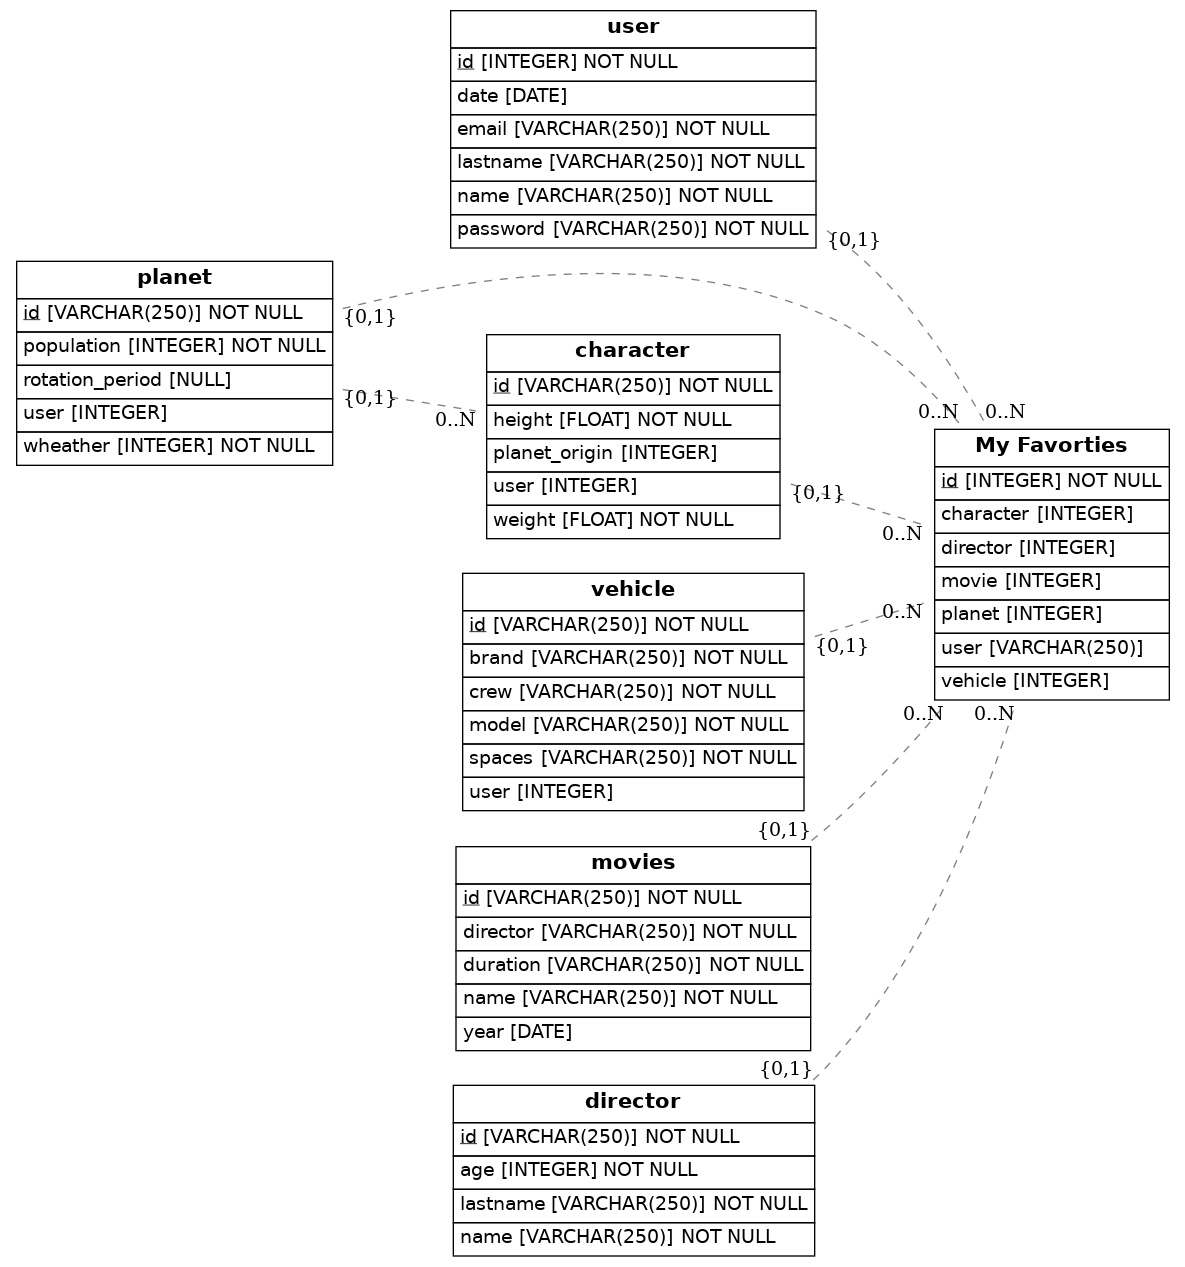
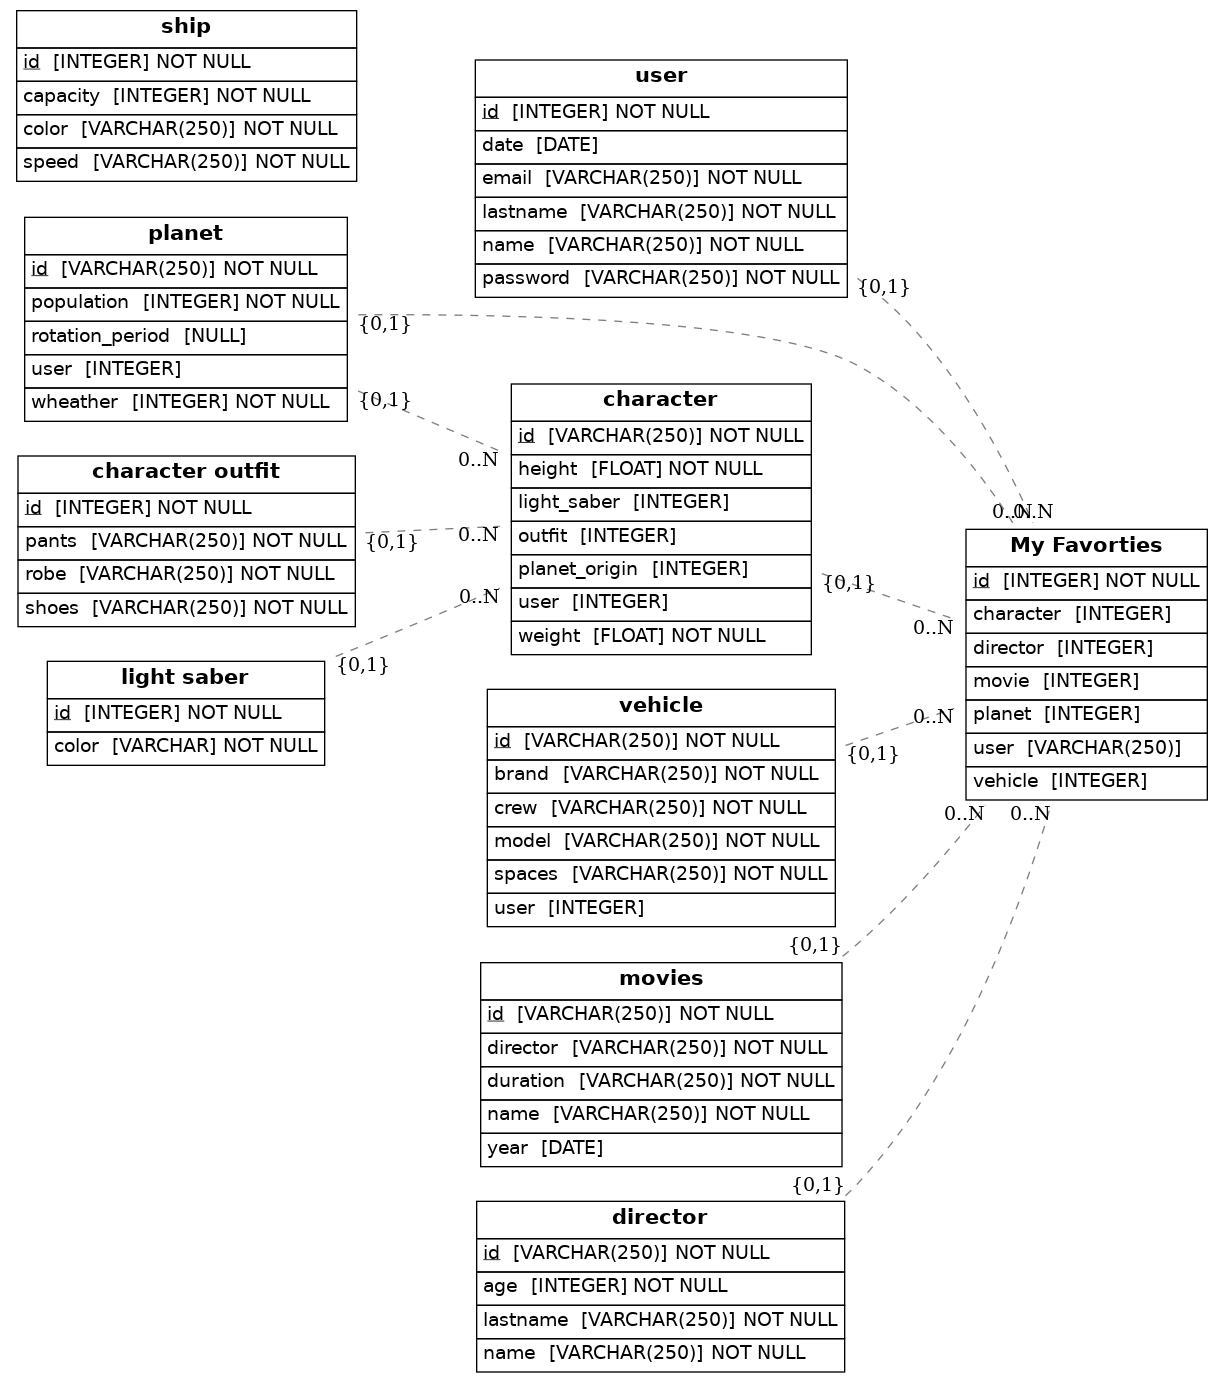
Light Saber and Character Outfit created

diff --git a/src/models.py b/src/models.py
@@ -26,6 +26,8 @@ class Character(Base):
     planet_origin = Column(Integer, ForeignKey('planet.id'))
     height = Column(Float, nullable=False)
     weight = Column(Float, nullable=False)
+    outfit = Column(ForeignKey('character outfit.id'))
+    light_saber = Column(ForeignKey('light saber.id'))
 
     def to_dict(self):
         return {}
@@ -65,12 +67,40 @@ class Movies(Base):
     def to_dict(self):
         return {}
     
+class ship(Base):
+    __tablename__ = 'ship'
+    id = Column(Integer, primary_key=True)
+    capacity= Column(Integer, nullable=False)
+    color = Column(String(250), nullable=False)
+    speed = Column(String(250), nullable=False)
+
+    def to_dict(self):
+        return {}
+    
+class Outfit(Base):
+    __tablename__ = 'character outfit'
+    id = Column(Integer, primary_key=True)
+    pants = Column(String(250), nullable=False)
+    shoes = Column(String(250), nullable=False)
+    robe = Column(String(250), nullable=False)
+
+    def to_dict(self):
+        return {}
+    
+class LightSaber(Base):
+    __tablename__ = 'light saber'
+    id = Column(Integer, primary_key=True)
+    color = Column(String, nullable=False)
+
 class Director(Base):
     __tablename__ = 'director'
     id = Column(String(250), primary_key=True)
     age = Column(Integer, nullable=False)
     lastname = Column(String(250), nullable=False)
     name = Column(String(250), nullable=False)
+
+    def to_dict(self):
+        return {}
 
 class MyFavorites(Base):
     __tablename__ = 'My Favorties'
@@ -83,8 +113,7 @@ class MyFavorites(Base):
     character = Column(Integer, ForeignKey('character.id'))
     def to_dict(self):
         return {}
-    
-    
+        
 
 ## Draw from SQLAlchemy base
 render_er(Base, 'diagram.png')
